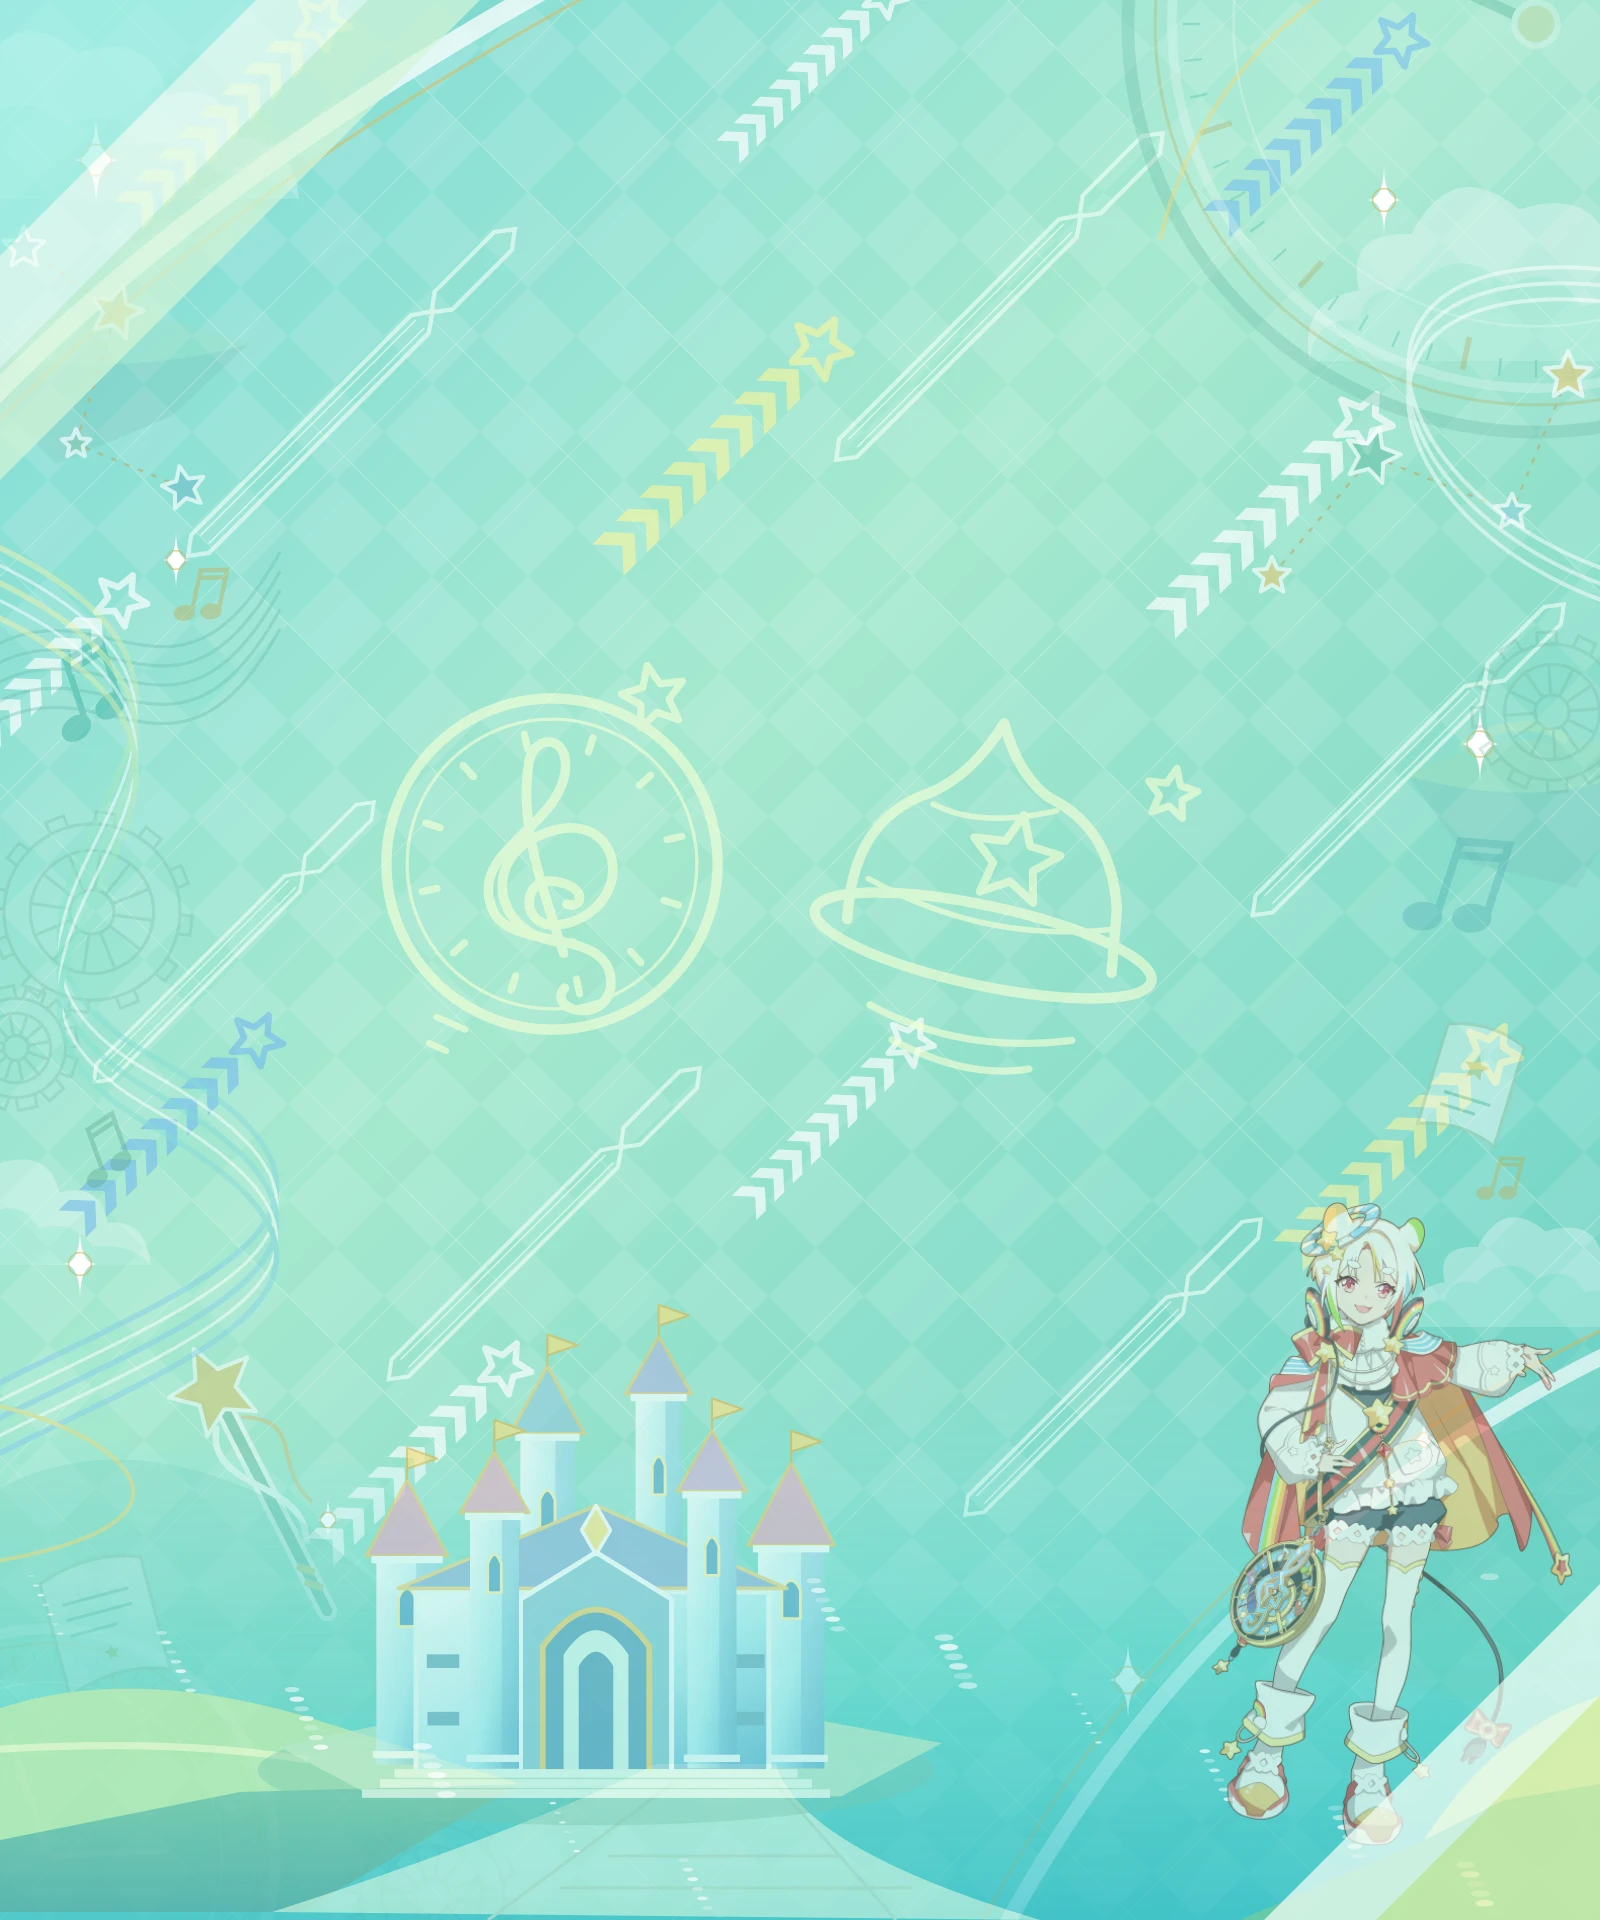
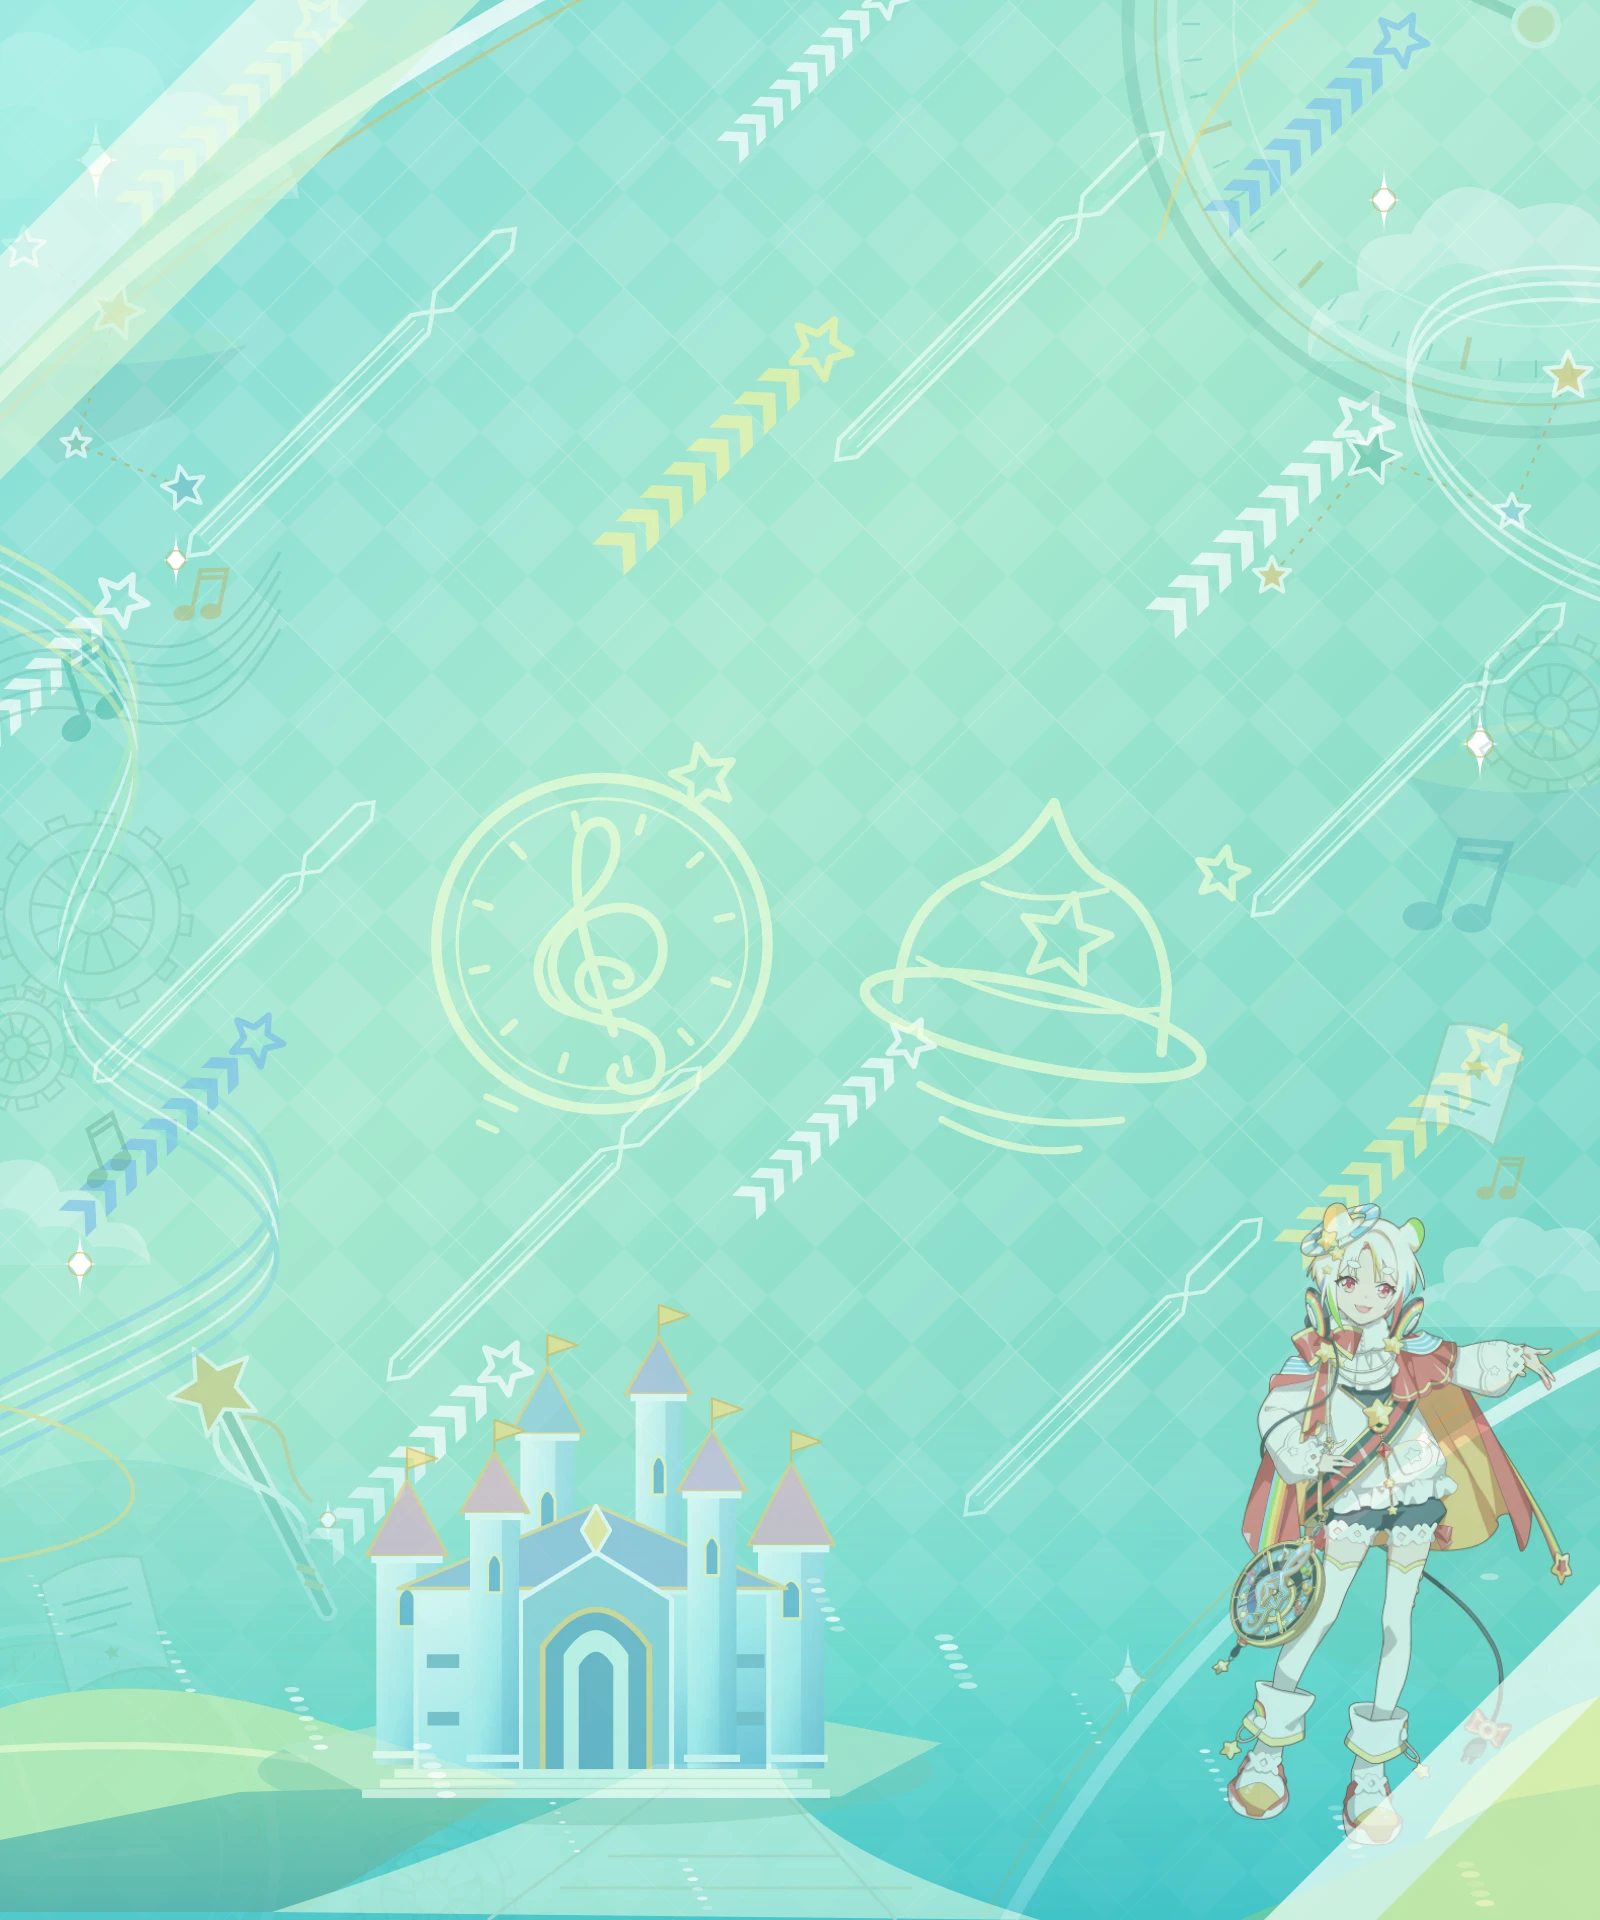
style(web): optically center MAGiCAL emblem pair

Changed region(s): [[0.2188, 0.3438, 0.75, 0.625], [0.75, 0.4375, 0.7812, 0.4688], [0.7188, 0.4062, 0.75, 0.4375]]

diff --git a/docs/assets/magical/README.md b/docs/assets/magical/README.md
@@ -17,3 +17,5 @@ The Sega homepage still displayed CiRCLE PLUS when these resources were retrieve
 The web exports are checked into `apps/web/public/images/versions/magical/` so they deploy with the app. They do not depend on a separate CDN upload. The background is 1600 × 1920 WebP; the logo is a lossless WebP conversion of Sega's transparent PNG.
 
 This update changes the selected release and artwork. It does not regenerate `packages/dxdata/dxdata.json` or invent MAGiCAL chart constants. The existing catalog continues to provide its known values until the upstream data is regenerated. Rank badges reuse the existing CiRCLE PLUS artwork until MAGiCAL rank assets are available.
+
+The central emblem pair is optically centered using the alpha-weighted centroid of its rendered strokes: (1000, 1200) on the 2000 × 2400 canvas. The group is translated by (62.49, 99.55) from the original placement, matching Figma.
